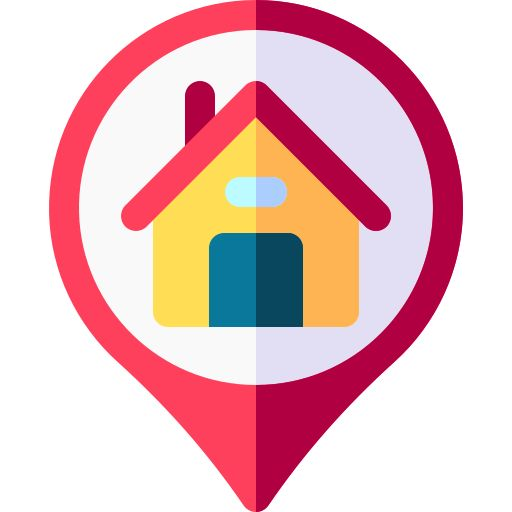
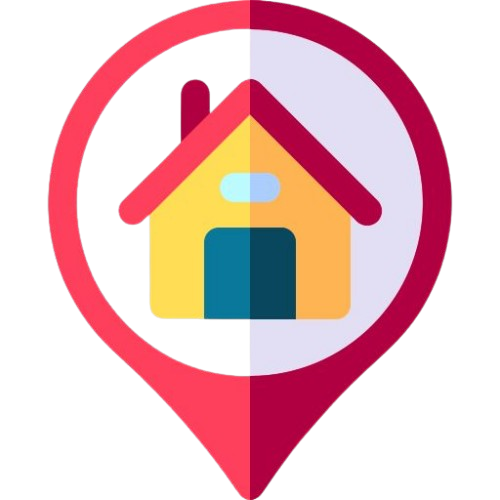
feat: add x-internal-key to CORS allowed headers across all services
- Added `x-internal-key` to allowedHeaders in CORS config for auth, realtime, restaurant, rider, and utilities services
- Removed unused `RiderOrderMap` component from rider dashboard
- Updated client assets (Delivery_man.jpg, Home.jpg)

diff --git a/services/auth/src/config/cors/cors.ts b/services/auth/src/config/cors/cors.ts
@@ -40,7 +40,8 @@ export const corsOptions: CorsOptions = {
             "Cache-Control",
             "Expires",
             "Pragma",
-            "X-Requested-With"
+            "X-Requested-With",
+            "x-internal-key"
       ],
       exposedHeaders: ["X-Cache"]
 };

diff --git a/services/realtime/src/config/cors.ts b/services/realtime/src/config/cors.ts
@@ -40,7 +40,8 @@ export const corsOptions: CorsOptions = {
             "Cache-Control",
             "Expires",
             "Pragma",
-            "X-Requested-With"
+            "X-Requested-With",
+            "x-internal-key"
       ],
       exposedHeaders: ["X-Cache"]
 };

diff --git a/services/restaurant/src/config/cors/cors.ts b/services/restaurant/src/config/cors/cors.ts
@@ -40,7 +40,8 @@ export const corsOptions: CorsOptions = {
             "Cache-Control",
             "Expires",
             "Pragma",
-            "X-Requested-With"
+            "X-Requested-With",
+            "x-internal-key"
       ],
       exposedHeaders: ["X-Cache"]
 };

diff --git a/services/rider/src/config/cors.ts b/services/rider/src/config/cors.ts
@@ -40,7 +40,8 @@ export const corsOptions: CorsOptions = {
             "Cache-Control",
             "Expires",
             "Pragma",
-            "X-Requested-With"
+            "X-Requested-With",
+            "x-internal-key"
       ],
       exposedHeaders: ["X-Cache"]
 };

diff --git a/services/utilities/src/config/cors.ts b/services/utilities/src/config/cors.ts
@@ -40,7 +40,8 @@ export const corsOptions: CorsOptions = {
             "Cache-Control",
             "Expires",
             "Pragma",
-            "X-Requested-With"
+            "X-Requested-With",
+            "x-internal-key"
       ],
       exposedHeaders: ["X-Cache"]
 };

diff --git a/client/src/pages/rider.tsx b/client/src/pages/rider.tsx
@@ -22,7 +22,6 @@ import { useNavigate } from "react-router-dom";
 import IncomingOrderCard from "../components/rider/IncomingOrderCard";
 import CurrentOrderCard from "../components/rider/CurrentOrderCard";
 import DeliveryHistoryCard from "../components/rider/DeliveryHistoryCard";
-import RiderOrderMap from "../components/rider/riderOrderMap";
 
 const RiderDashboard = () => {
       const { user, location, locationLoading, setUser, setIsAuth } = useAppData();
@@ -541,7 +540,6 @@ const RiderDashboard = () => {
                                           }
                                     }}
                               />
-                              <RiderOrderMap order={currentOrder} />
                         </div>
                   )}
 